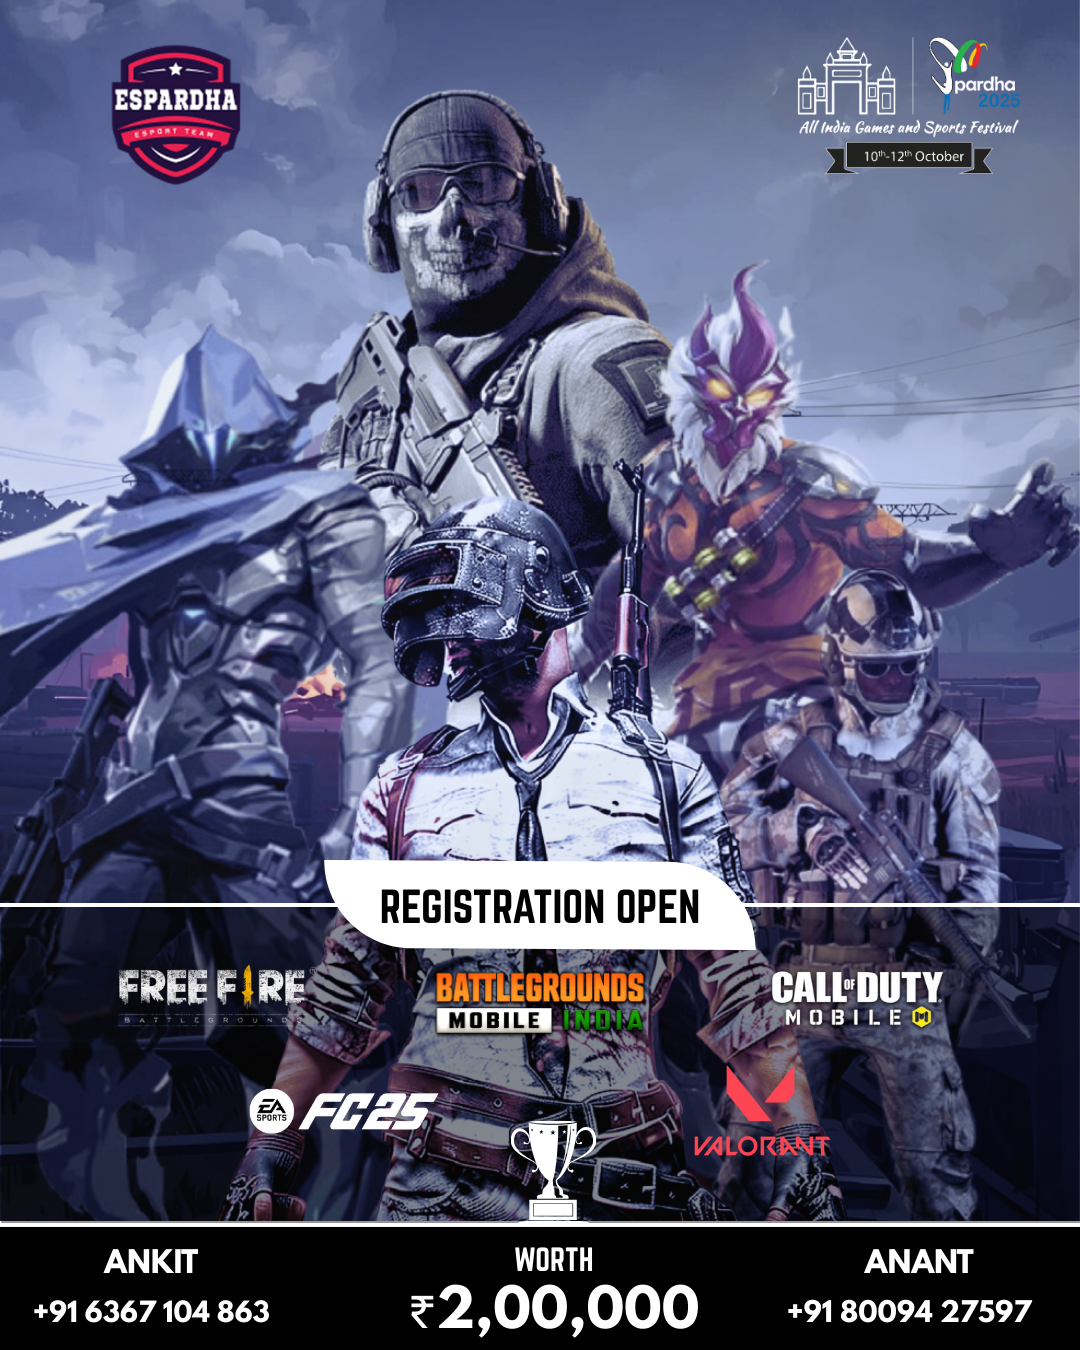
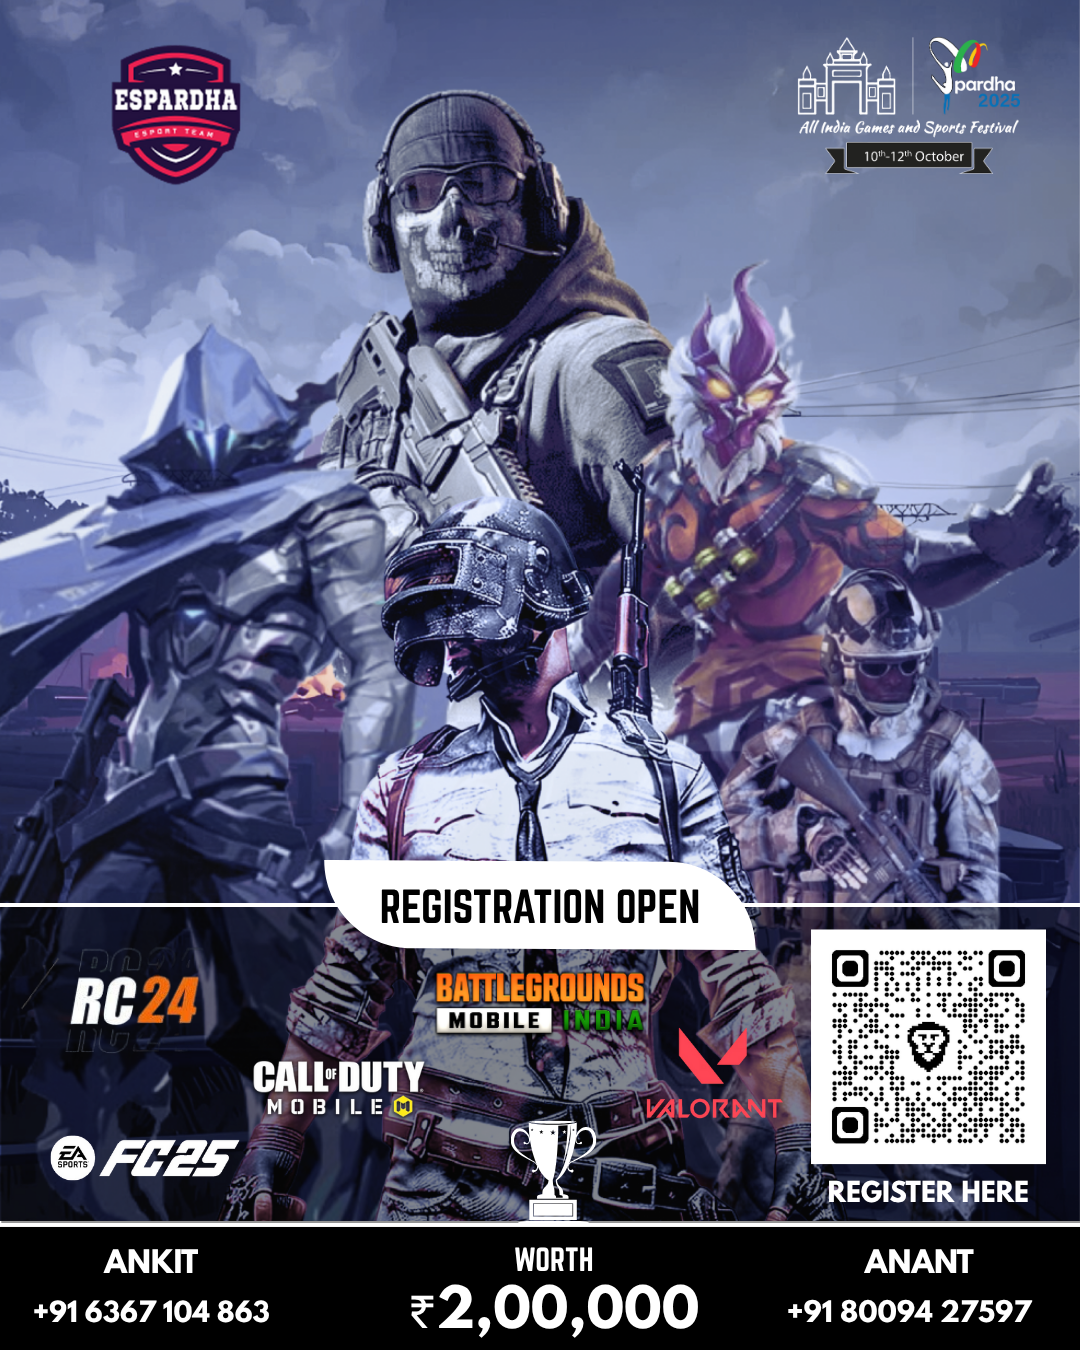
Espardha poster updated

diff --git a/frontend/src/components/LandingPages/Espardha/Espardha.js b/frontend/src/components/LandingPages/Espardha/Espardha.js
@@ -2,18 +2,15 @@ import React, { useState } from "react";
 import styles from "./Espardha.module.css";
 import poster from "./img/poster25.png";
 import controler from "./img/control.png";
-// import pdf from "./ESPARDHA24.pdf";
 import valorent from "./img/valorent.png";
 import bgmi from "./img/bgmi.png";
-import freefire from "./img/freefire1.png";
+// import freefire from "./img/freefire1.png";
 import cod from "./img/CODM.png";
 import fifa from "./img/FIFA.png";
 import polygonb from "./img/poly.png";
-// import polygonw from "./img/polyw.png";
-// import polygonwi from "./img/polywi.png"
 import valorant_rulebook from "./rulebook/VALORANT_RULEBOOK.pdf";
 import bgmi_rulebook from "./rulebook/BGMI_RULEBOOK.pdf";
-import freefire_rulebook from "./rulebook/FREEFIRE_RULEBOOK.pdf";
+// import freefire_rulebook from "./rulebook/FREEFIRE_RULEBOOK.pdf";
 import codm_rulebook from "./rulebook/CODM_Rulebook.pdf";
 import fifa_rulebook from "./rulebook/FIFA_rulebook.pdf";
 
@@ -32,13 +29,13 @@ const eventsData = [
     regLink: "https://forms.gle/MP4LPtveVJhpzbLs5",
     rulebook: bgmi_rulebook,
   },
-  {
-    title: "Free Fire E-Spardha 2025",
-    img: freefire,
-    fee: "₹120/Person",
-    regLink: "https://forms.gle/ef5ExuEMofxjL9SP9",
-    rulebook: freefire_rulebook,
-  },
+  // {
+  //   title: "Free Fire E-Spardha 2025",
+  //   img: freefire,
+  //   fee: "₹120/Person",
+  //   regLink: "https://forms.gle/ef5ExuEMofxjL9SP9",
+  //   rulebook: freefire_rulebook,
+  // },
   {
     title: "Call Of Duty Mobile E-Spardha 2025",
     img: cod,
